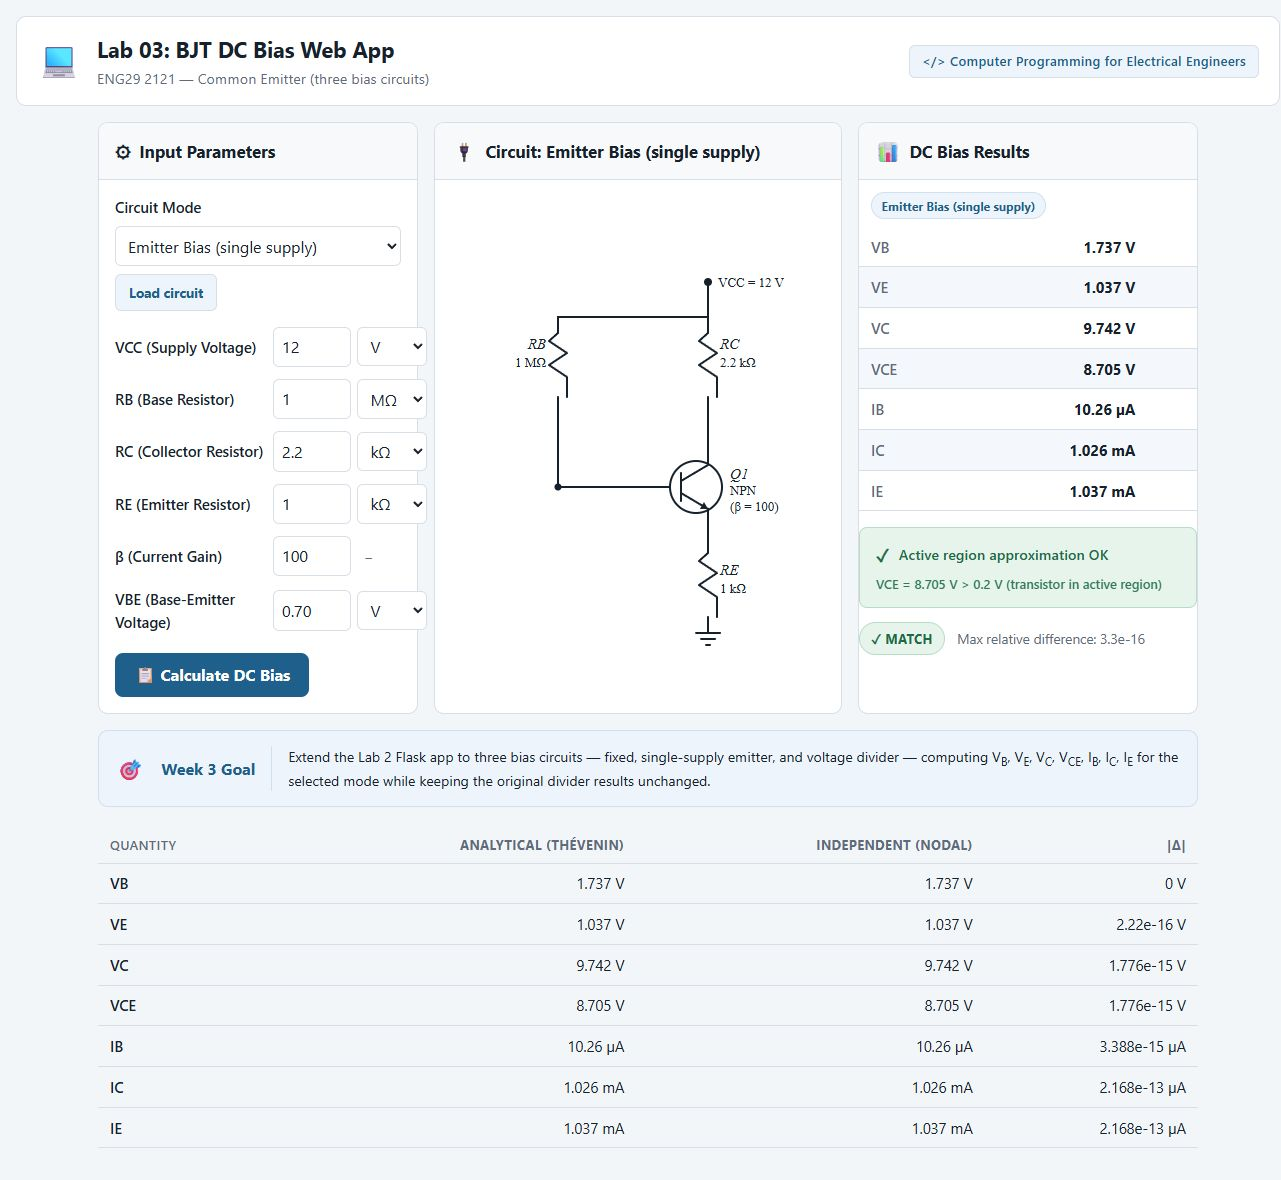
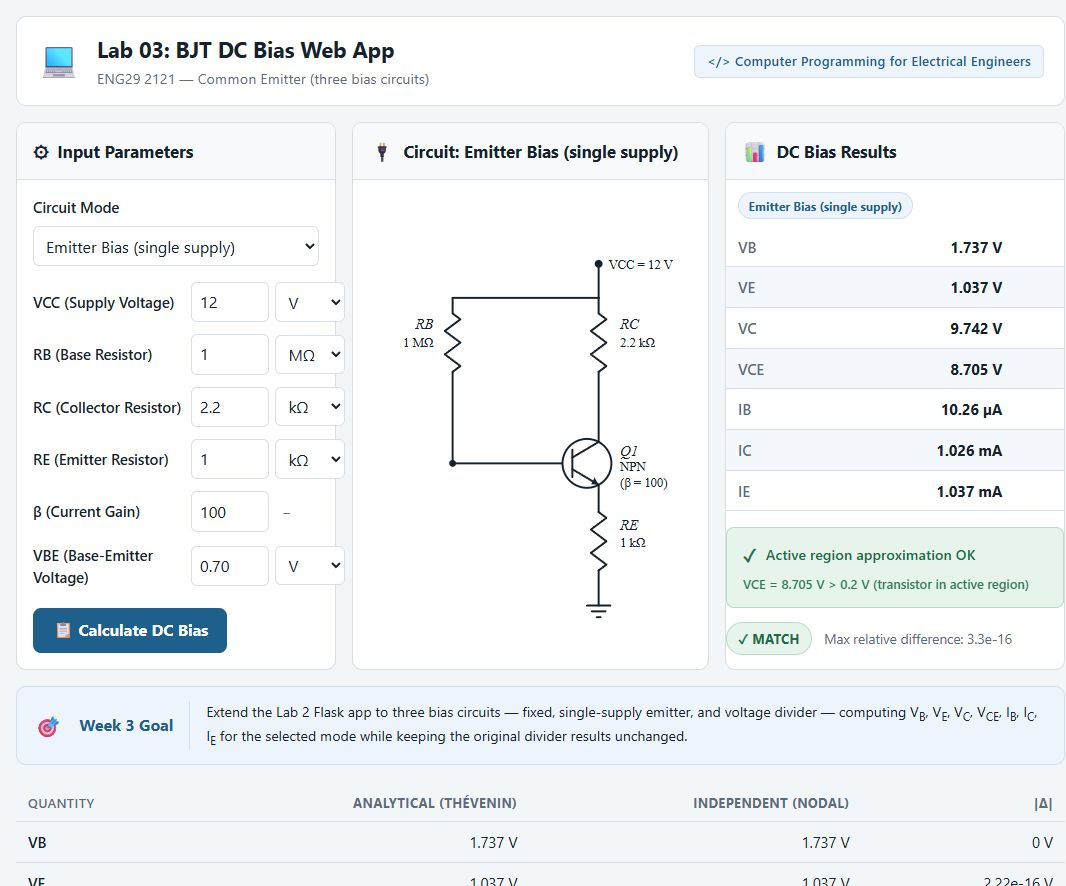
fix: redraw resistors and transistor symbol cleanly

diff --git a/templates/index.html b/templates/index.html
@@ -80,43 +80,43 @@
 
         {% if mode == 'divider' %}
         <!-- R1 -->
-        <path class="wire" d="M90,80 V96 L81,104 L99,116 L81,128 L99,140 V160" />
-        <path class="wire" d="M90,160 V250" />
-        <text class="ref" x="78" y="112" text-anchor="end">R1</text>
-        <text class="ref-val" x="78" y="130" text-anchor="end">{{ values.r1 if values else '' }} {{ units.r1 if units else '' }}</text>
+        <path class="wire" d="M90,80 V96 L98,102 L82,114 L98,126 L82,138 L98,150 L90,156" />
+        <path class="wire" d="M90,156 V250" />
+        <text class="ref" x="70" y="112" text-anchor="end">R1</text>
+        <text class="ref-val" x="70" y="130" text-anchor="end">{{ values.r1 if values else '' }} {{ units.r1 if units else '' }}</text>
 
         <!-- base node and R2 -->
         <circle class="node" cx="90" cy="250" r="3.5" />
         <path class="wire" d="M90,250 V280" />
-        <path class="wire" d="M90,280 V296 L81,304 L99,316 L81,328 L99,340 V360" />
-        <path class="wire" d="M90,360 V376" />
+        <path class="wire" d="M90,280 L98,286 L82,298 L98,310 L82,322 L98,334 L90,340" />
+        <path class="wire" d="M90,340 V376" />
         <path class="wire" d="M78,376 H102 M83,382 H97 M88,388 H92" />
-        <text class="ref" x="78" y="312" text-anchor="end">R2</text>
-        <text class="ref-val" x="78" y="330" text-anchor="end">{{ values.r2 if values else '' }} {{ units.r2 if units else '' }}</text>
+        <text class="ref" x="70" y="300" text-anchor="end">R2</text>
+        <text class="ref-val" x="70" y="318" text-anchor="end">{{ values.r2 if values else '' }} {{ units.r2 if units else '' }}</text>
         {% else %}
         <!-- RB from VCC to base -->
-        <path class="wire" d="M90,80 V96 L81,104 L99,116 L81,128 L99,140 V160" />
-        <path class="wire" d="M90,160 V250" />
+        <path class="wire" d="M90,80 V96 L98,102 L82,114 L98,126 L82,138 L98,150 L90,156" />
+        <path class="wire" d="M90,156 V250" />
         <circle class="node" cx="90" cy="250" r="3.5" />
-        <text class="ref" x="78" y="112" text-anchor="end">RB</text>
-        <text class="ref-val" x="78" y="130" text-anchor="end">{{ values.rb if values else '' }} {{ units.rb if units else '' }}</text>
+        <text class="ref" x="70" y="112" text-anchor="end">RB</text>
+        <text class="ref-val" x="70" y="130" text-anchor="end">{{ values.rb if values else '' }} {{ units.rb if units else '' }}</text>
         {% endif %}
 
         <!-- base wire -->
         <path class="wire" d="M90,250 H213" />
 
         <!-- RC -->
-        <path class="wire" d="M240,80 V96 L231,104 L249,116 L231,128 L249,140 V160" />
-        <path class="wire" d="M240,160 V228" />
-        <text class="ref" x="252" y="112">RC</text>
-        <text class="ref-val" x="252" y="130">{{ values.rc if values else '' }} {{ units.rc if units else '' }}</text>
+        <path class="wire" d="M240,80 V96 L248,102 L232,114 L248,126 L232,138 L248,150 L240,156" />
+        <path class="wire" d="M240,156 V228" />
+        <text class="ref" x="262" y="112">RC</text>
+        <text class="ref-val" x="262" y="130">{{ values.rc if values else '' }} {{ units.rc if units else '' }}</text>
 
         <!-- transistor -->
-        <circle class="device" cx="228" cy="250" r="26" />
+        <circle class="device" cx="228" cy="250" r="25.1" />
         <path class="wire" d="M213,236 V264" />
         <path class="wire" d="M213,244 L240,228" />
         <path class="wire" d="M213,256 L240,272" />
-        <polygon class="arrow" points="240,272 231.9,271.9 236,265" />
+        <polygon class="arrow" points="240,272 232.3,271.4 235.8,264.7" />
         <text class="ref" x="262" y="242">Q1</text>
         <text class="ref-val" x="262" y="258">NPN</text>
         <text class="ref-val" x="262" y="274">(β = {{ values.beta if values else '' }})</text>
@@ -128,11 +128,11 @@
         {% else %}
         <!-- RE -->
         <path class="wire" d="M240,272 V300" />
-        <path class="wire" d="M240,300 V316 L231,324 L249,336 L231,348 L249,360 V380" />
-        <path class="wire" d="M240,380 V396" />
+        <path class="wire" d="M240,300 L248,306 L232,318 L248,330 L232,342 L248,354 L240,360" />
+        <path class="wire" d="M240,360 V396" />
         <path class="wire" d="M228,396 H252 M233,402 H247 M238,408 H242" />
-        <text class="ref" x="252" y="338">RE</text>
-        <text class="ref-val" x="252" y="356">{{ values.re if values else '' }} {{ units.re if units else '' }}</text>
+        <text class="ref" x="262" y="318">RE</text>
+        <text class="ref-val" x="262" y="336">{{ values.re if values else '' }} {{ units.re if units else '' }}</text>
         {% endif %}
 
         <text class="ref-val" x="250" y="50">VCC = {{ values.vcc if values else '' }} {{ units.vcc if units else '' }}</text>
